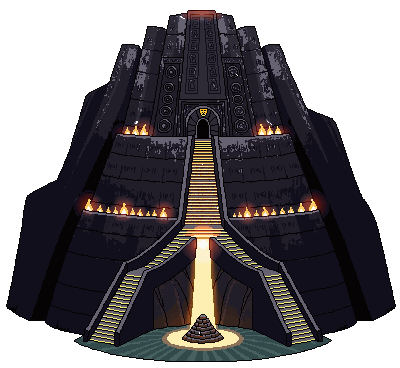
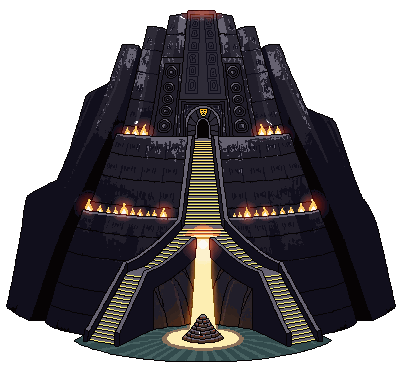
fix(merveilles): Arc t5 — la lueur respire VISIBLEMENT (v3 + blend additif)
La v2 etait techniquement rendue mais imperceptible (halo 0.18->0.60 sur
un corridor deja blanc). v3 : respiration DE ZERO a pleine intensite
(l oeil accroche sur l apparition), courbe smoothstep, rayons en etoile
aux frames hautes, et nouveau `blend:lighter` par asset dans
drawWonderPixelSprite (blending additif : le halo pousse la scene vers
la surexposition au lieu de se fondre). Verifie : burst dore evident au
sommet du souffle vs etat de repos.

diff --git a/src/game/map/renderBuildings.js b/src/game/map/renderBuildings.js
@@ -414,7 +414,16 @@ function drawWonderPixelSprite(wid, px, tier, cxs, baseY, W, H, e, now) {
             ? top + f.y * sy - dh / 2 // éclat : centré sur sa gemme
             : top + f.y * sy - dh + sy; // flamme : posée sur son foyer, monte
       }
-      ctx.drawImage(strip.img, k * a.fw, 0, a.fw, a.fh, dx, dy, dw, dh);
+      if (a.blend) {
+        // Halo lumineux : blending additif — le voile pousse la scène vers la
+        // surexposition au lieu de se fondre dans un fond déjà clair.
+        const prevOp = ctx.globalCompositeOperation;
+        ctx.globalCompositeOperation = a.blend;
+        ctx.drawImage(strip.img, k * a.fw, 0, a.fw, a.fh, dx, dy, dw, dh);
+        ctx.globalCompositeOperation = prevOp;
+      } else {
+        ctx.drawImage(strip.img, k * a.fw, 0, a.fw, a.fh, dx, dy, dw, dh);
+      }
     }
   }
   ctx.imageSmoothingEnabled = prev;
